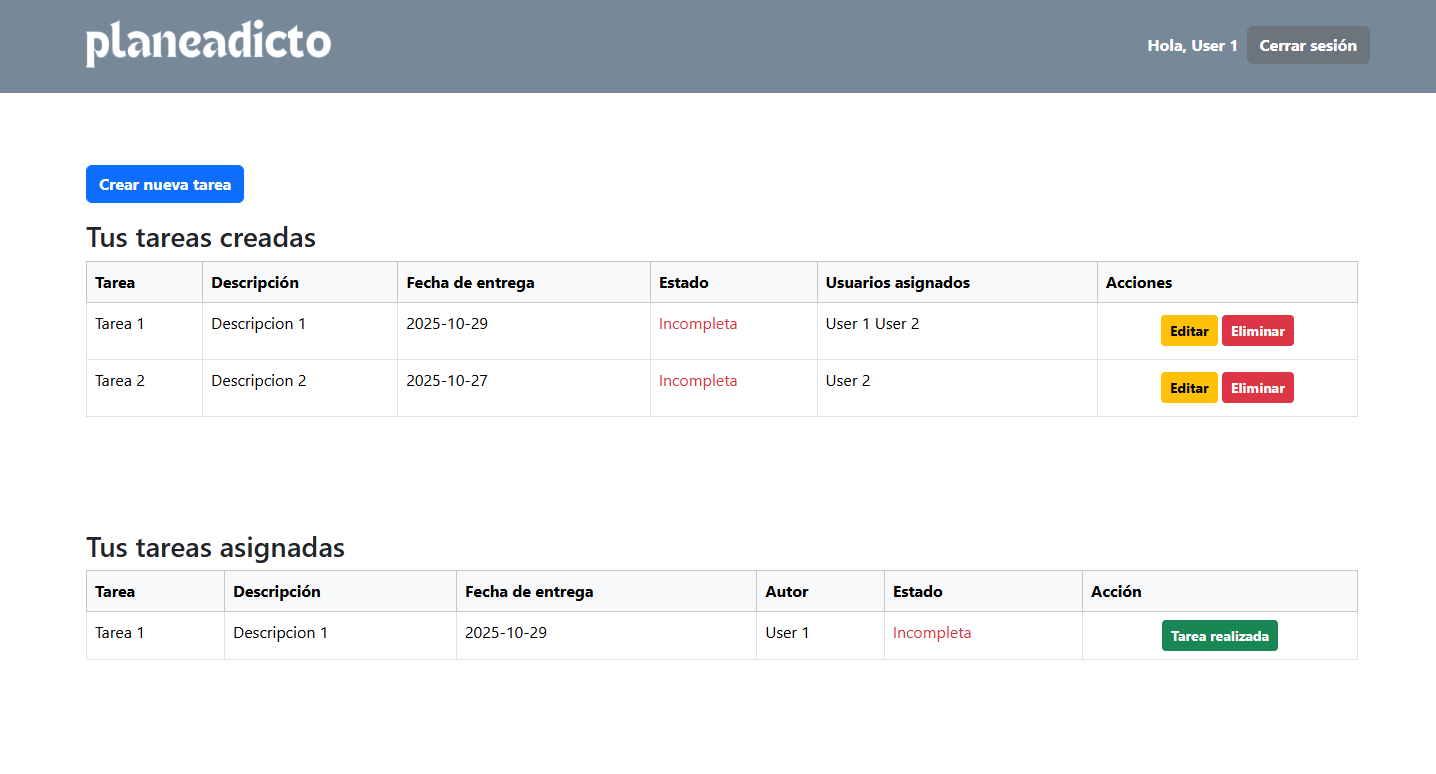
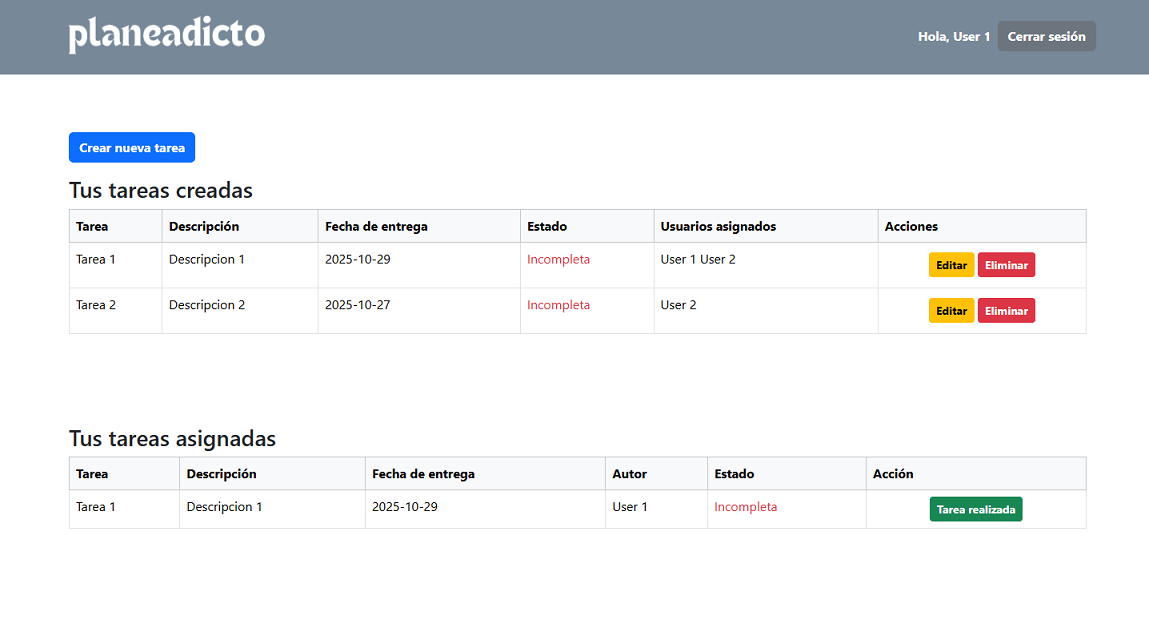
Add app flow image, extended readme

diff --git a/README.md b/README.md
@@ -1,2 +1,20 @@
-# task-planner
-multiuser task planner
+# Task Planner
+## Overview
+This is a task planner which lets users Create, Read, Update, Delete and assign tasks to other users.
+
+- Users need to be registered and logged in before being able to create a task. <br>
+- When a user creates a task (active user) he gains ownership over said task. <br>
+- Active users can add a title, description, due date, assign users and edit or delete the task. <br>
+- Users assigned to the task (passive users) are the only ones that can report the task as completed. <br>
+- The owner of the task gets notified when the task is completed. <br>
+
+## Dashboard
+
+![Dashboard](img/home-img.png)
+
+
+## Technologies used
+
+- PHP with mysqli
+- HTML/CSS
+- Bootstrap
